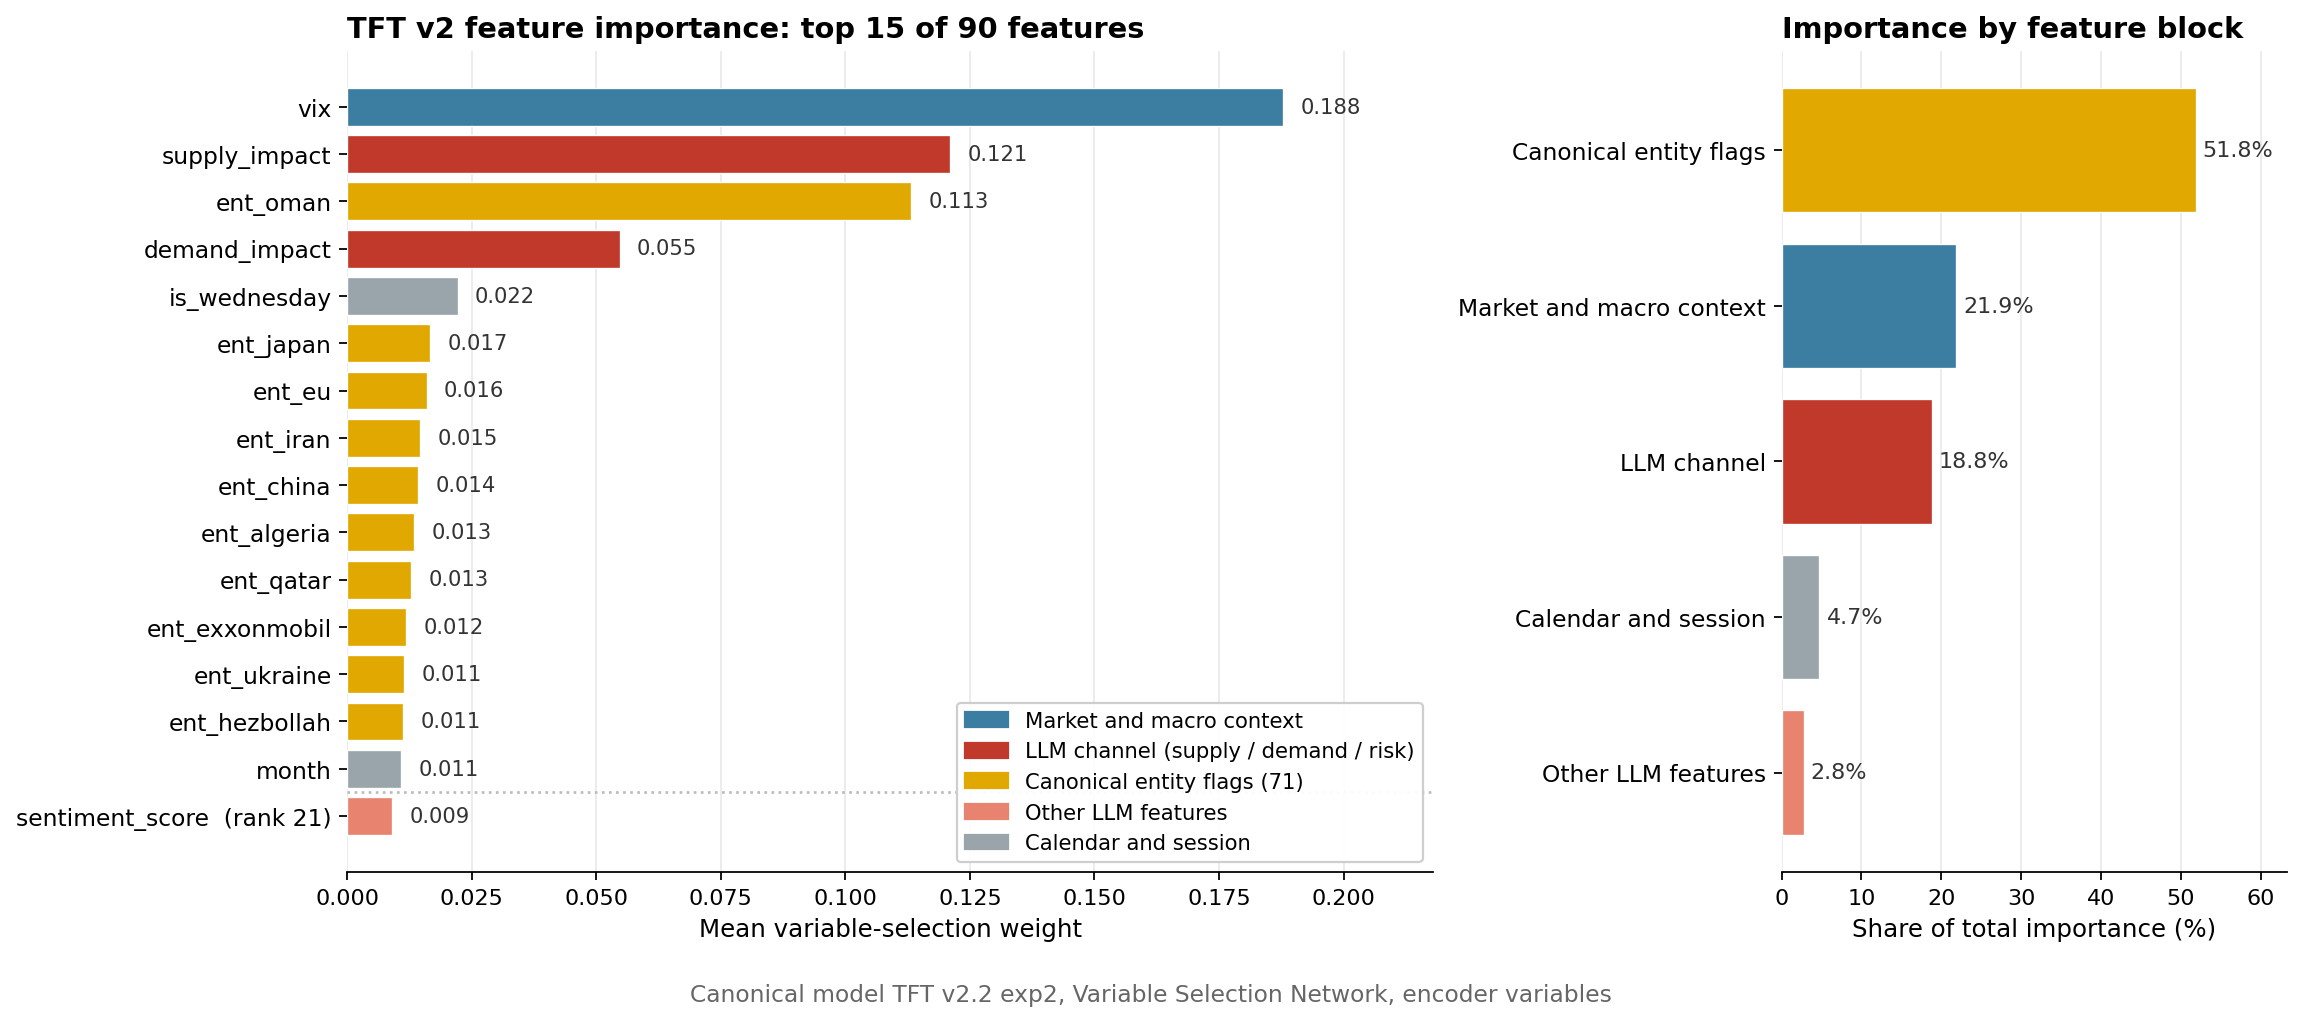
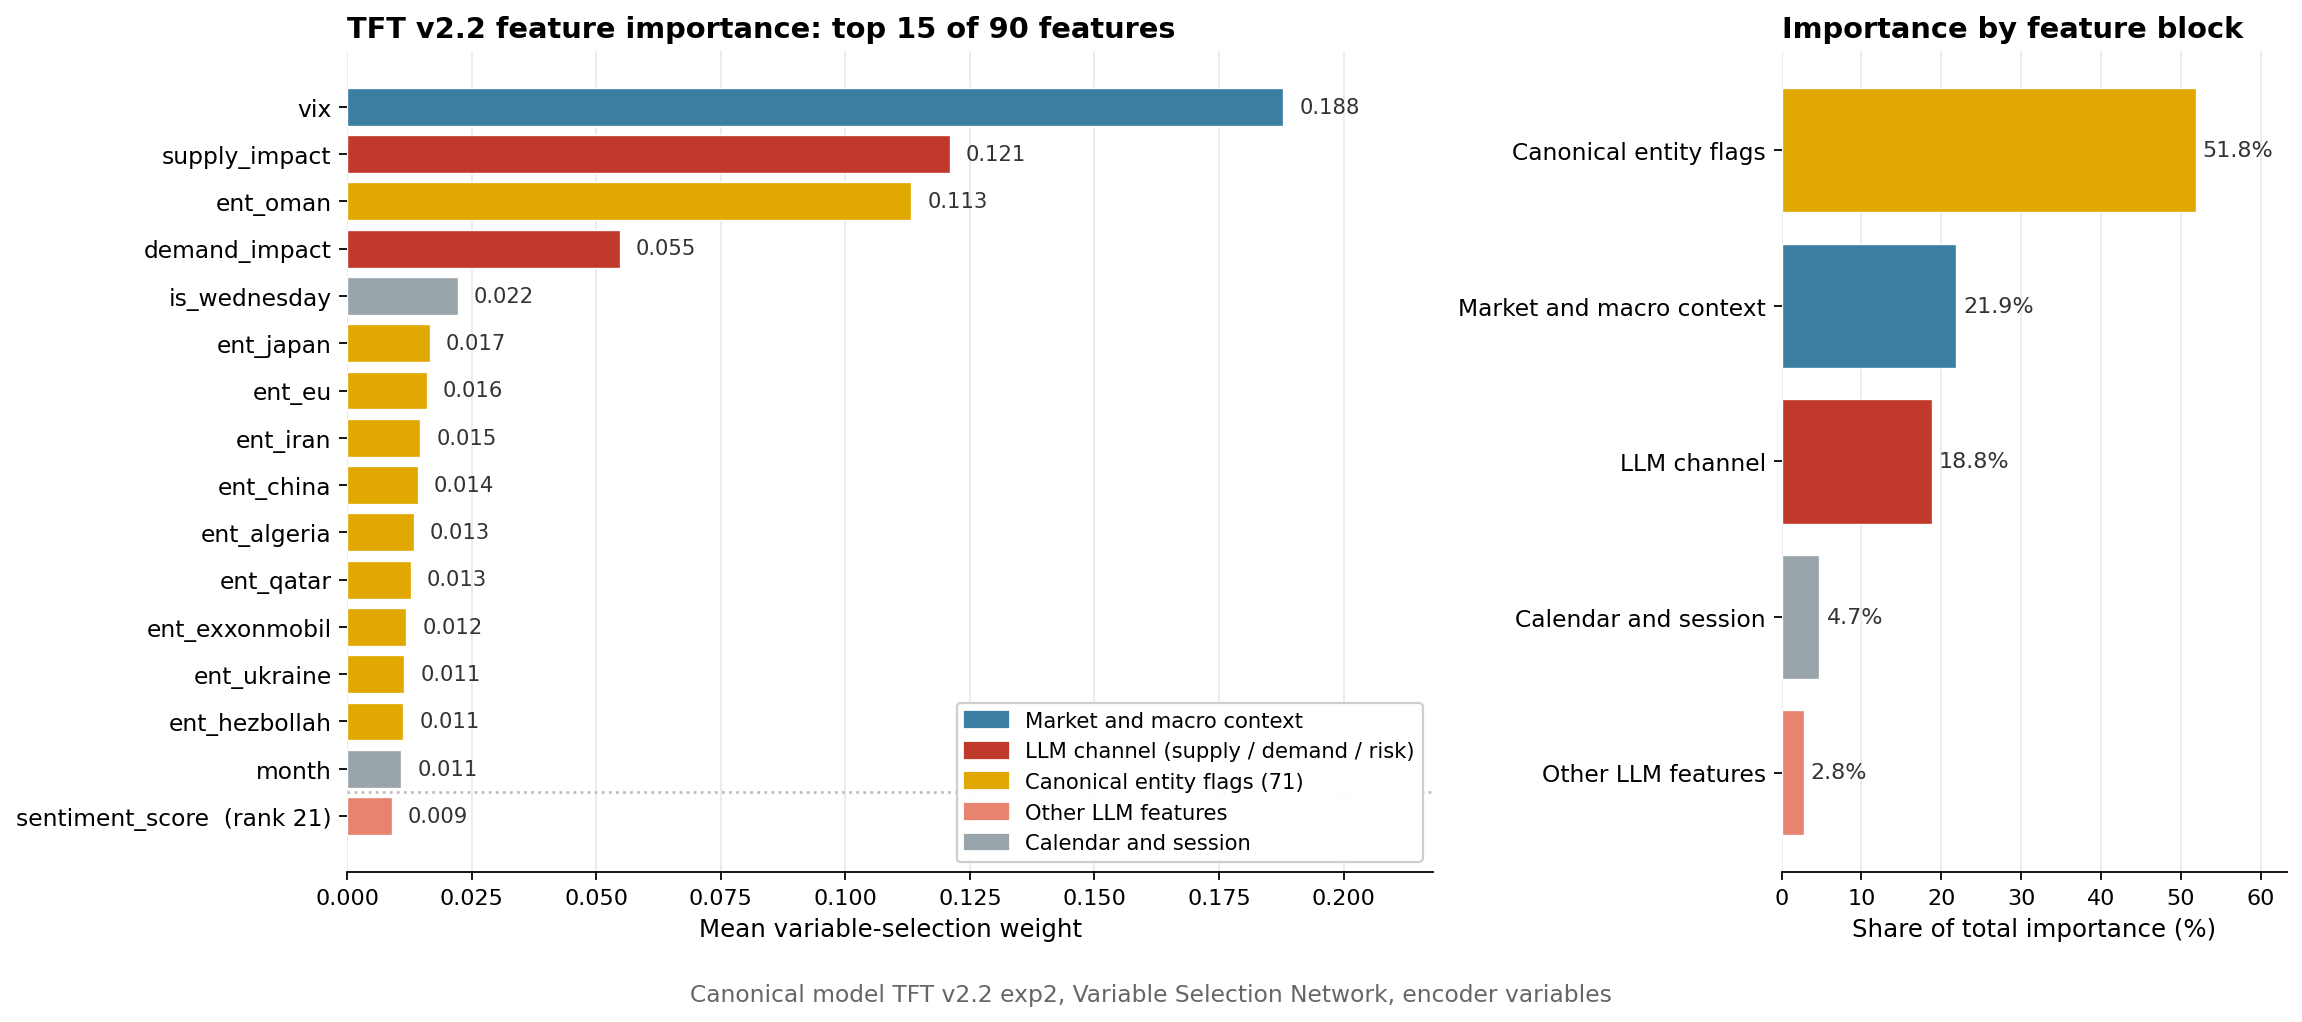
Update readme with feature importance figure

diff --git a/03_src/tft/plot_feature_importance.py b/03_src/tft/plot_feature_importance.py
@@ -1,0 +1,263 @@
+# 03_src/tft/plot_feature_importance.py
+"""Render the TFT v2 Variable Selection Network importance figure.
+
+Reads the `feature_importance.json` written by notebook 13 for an ablation
+variant and produces a two-panel figure: the top-N individual features
+coloured by feature block, and each block's share of total importance.
+
+The composite `sentiment_score` is always included, annotated with its rank
+when it falls outside the top N.  That is the point of the figure for the
+thesis: the channel decomposition pushed the composite from 53% of TFT v1's
+weight down to rank 21 here.
+
+Reads:   04_outputs/experiment_tracking/TFT/TFTv2/tft_v2_outputs/<variant>/feature_importance.json
+Writes:  04_outputs/figures/tft_v2_feature_importance.png
+
+Usage:
+    python 03_src/tft/plot_feature_importance.py
+    python 03_src/tft/plot_feature_importance.py --variant v2.1 --top 20
+"""
+
+import argparse
+import json
+from pathlib import Path
+
+import matplotlib
+
+matplotlib.use("Agg")
+import matplotlib.pyplot as plt
+
+# Repo root, resolved from this file so the script runs from any cwd.
+ROOT = Path(__file__).resolve().parents[2]
+V2_OUTPUTS = ROOT / "04_outputs/experiment_tracking/TFT/TFTv2/tft_v2_outputs"
+FIGURES = ROOT / "04_outputs/figures"
+
+# Canonical variant. See 05_reports/development-decisions/thesis_decisions_log.md:
+# v2.2 exp2 is the reported model (v2.3 added EIA features and scored worse).
+DEFAULT_VARIANT = "v2.2"
+
+# Feature blocks. Entity flags are matched by the ent_ prefix that
+# config.entity_to_column_name() produces, so the 71 flags need no listing.
+CHANNEL = {"supply_impact", "demand_impact", "risk_premium"}
+OTHER_LLM = {
+    "sentiment_score",
+    "certainty",
+    "magnitude",
+    "n_articles",
+    # v2.0 only: the int-encoded categoricals that v2.1 replaced with learned
+    # embeddings. Kept so the earlier ablation variants still plot.
+    "event_type_int",
+    "time_horizon_int",
+}
+MARKET = {"vix", "dxy", "log_volume", "log_return", "amihud", "price_range"}
+CALENDAR = {
+    "is_wednesday",
+    "month",
+    "day_of_week",
+    "hour",
+    "is_us_session",
+    "relative_time_idx",
+}
+
+COLORS = {
+    "channel": "#C0392B",
+    "llm": "#E8836F",
+    "entity": "#E0A800",
+    "market": "#3B7EA1",
+    "calendar": "#9AA5AB",
+}
+LABELS = {
+    "channel": "LLM channel (supply / demand / risk)",
+    "llm": "Other LLM features",
+    "entity": "Canonical entity flags (71)",
+    "market": "Market and macro context",
+    "calendar": "Calendar and session",
+}
+LEGEND_ORDER = ("market", "channel", "entity", "llm", "calendar")
+
+
+def feature_block(name: str) -> str:
+    """Map a feature name to its block key.
+
+    Raises on an unrecognised name rather than silently bucketing it, so a
+    schema change surfaces here instead of quietly skewing the block shares.
+    """
+    if name in CHANNEL:
+        return "channel"
+    if name in OTHER_LLM:
+        return "llm"
+    if name.startswith("ent_"):
+        return "entity"
+    if name in MARKET:
+        return "market"
+    if name in CALENDAR:
+        return "calendar"
+    raise ValueError(
+        f"uncategorized feature {name!r}: add it to a block set in this module"
+    )
+
+
+def plot_feature_importance(
+    importance: dict, variant: str, out_path: Path, top_n: int = 15
+):
+    """Render the two-panel importance figure and save it to out_path."""
+    total = sum(importance.values())
+    ranked = sorted(importance.items(), key=lambda kv: -kv[1])
+    rank_of = {k: i + 1 for i, (k, _) in enumerate(ranked)}
+
+    fig, (ax1, ax2) = plt.subplots(
+        1, 2, figsize=(14.5, 6.6), gridspec_kw={"width_ratios": [2.15, 1]}
+    )
+
+    # ---- left panel: top-N individual features ----
+    rows = ranked[:top_n]
+    # Always show the composite, even when it ranks below the cut.
+    trailing = [(k, v) for k, v in ranked if k == "sentiment_score" and rank_of[k] > top_n]
+    rows = rows + trailing
+
+    names = [k for k, _ in rows]
+    vals = [v for _, v in rows]
+    ypos = list(range(len(rows)))[::-1]
+
+    ax1.barh(
+        ypos,
+        vals,
+        color=[COLORS[feature_block(k)] for k in names],
+        edgecolor="white",
+        linewidth=0.6,
+    )
+    for y, v in zip(ypos, vals):
+        ax1.text(v + max(vals) * 0.017, y, f"{v:.3f}", va="center",
+                 fontsize=9.5, color="#333333")
+
+    ax1.set_yticks(ypos)
+    ax1.set_yticklabels(
+        [n if rank_of[n] <= top_n else f"{n}  (rank {rank_of[n]})" for n in names],
+        fontsize=10.5,
+    )
+    ax1.set_xlabel("Mean variable-selection weight", fontsize=11)
+    ax1.set_title(
+        f"TFT {variant} feature importance: "
+        f"top {min(top_n, len(importance))} of {len(importance)} features",
+        fontsize=13,
+        fontweight="bold",
+        loc="left",
+    )
+    ax1.set_xlim(0, max(vals) * 1.16)
+    ax1.grid(axis="x", alpha=0.3, linewidth=0.7)
+    ax1.set_axisbelow(True)
+    for side in ("top", "right", "left"):
+        ax1.spines[side].set_visible(False)
+
+    if trailing:
+        # Dotted rule marking the break between the top-N and the appended rows.
+        ax1.axhline(len(trailing) - 0.5, color="#BBBBBB", linestyle=":", linewidth=1.2)
+
+    ax1.legend(
+        [plt.Rectangle((0, 0), 1, 1, color=COLORS[b]) for b in LEGEND_ORDER],
+        [LABELS[b] for b in LEGEND_ORDER],
+        loc="lower right",
+        fontsize=9.5,
+        frameon=True,
+        framealpha=0.95,
+    )
+
+    # ---- right panel: share of total importance by block ----
+    sums = {}
+    for name, weight in importance.items():
+        block = feature_block(name)
+        sums[block] = sums.get(block, 0.0) + weight
+
+    order = sorted(sums, key=lambda b: -sums[b])
+    shares = [100 * sums[b] / total for b in order]
+    ypos2 = list(range(len(order)))[::-1]
+
+    ax2.barh(
+        ypos2,
+        shares,
+        color=[COLORS[b] for b in order],
+        edgecolor="white",
+        linewidth=0.6,
+    )
+    for y, s in zip(ypos2, shares):
+        ax2.text(s + 0.9, y, f"{s:.1f}%", va="center", fontsize=10, color="#333333")
+
+    ax2.set_yticks(ypos2)
+    ax2.set_yticklabels(
+        [
+            LABELS[b].replace(" (supply / demand / risk)", "").replace(" (71)", "")
+            for b in order
+        ],
+        fontsize=10.5,
+    )
+    ax2.set_xlabel("Share of total importance (%)", fontsize=11)
+    ax2.set_title("Importance by feature block", fontsize=13,
+                  fontweight="bold", loc="left")
+    ax2.set_xlim(0, max(shares) * 1.22)
+    ax2.grid(axis="x", alpha=0.3, linewidth=0.7)
+    ax2.set_axisbelow(True)
+    for side in ("top", "right", "left"):
+        ax2.spines[side].set_visible(False)
+
+    # Only v2.2 exp2 is the reported model; label the others plainly.
+    descriptor = (
+        f"Canonical model TFT {variant} exp2"
+        if variant == DEFAULT_VARIANT
+        else f"Ablation variant TFT {variant}"
+    )
+    fig.suptitle(
+        f"{descriptor}, Variable Selection Network, encoder variables",
+        fontsize=10.5,
+        color="#666666",
+        x=0.5,
+        y=0.015,
+    )
+    fig.tight_layout(rect=[0, 0.03, 1, 1])
+    out_path.parent.mkdir(parents=True, exist_ok=True)
+    fig.savefig(out_path, dpi=160, bbox_inches="tight", facecolor="white")
+    plt.close(fig)
+
+    return {b: round(100 * sums[b] / total, 1) for b in order}
+
+
+def _display(path: Path) -> str:
+    """Repo-relative path when the file sits inside the repo, absolute otherwise."""
+    path = path.resolve()
+    try:
+        return str(path.relative_to(ROOT))
+    except ValueError:
+        return str(path)
+
+
+def main():
+    parser = argparse.ArgumentParser(description=__doc__)
+    parser.add_argument(
+        "--variant",
+        default=DEFAULT_VARIANT,
+        help=f"ablation variant directory under {V2_OUTPUTS.name} (default: {DEFAULT_VARIANT})",
+    )
+    parser.add_argument(
+        "--top", type=int, default=15, help="number of individual features to show"
+    )
+    parser.add_argument(
+        "--out",
+        type=Path,
+        default=FIGURES / "tft_v2_feature_importance.png",
+        help="output PNG path",
+    )
+    args = parser.parse_args()
+
+    src = V2_OUTPUTS / args.variant / "feature_importance.json"
+    if not src.exists():
+        raise SystemExit(f"no feature_importance.json for variant {args.variant!r}: {src}")
+
+    importance = json.loads(src.read_text())
+    shares = plot_feature_importance(importance, args.variant, args.out, args.top)
+
+    print(f"read  {_display(src)}")
+    print(f"wrote {_display(args.out)}")
+    print(f"block shares: {shares}")
+
+
+if __name__ == "__main__":
+    main()

diff --git a/README.md b/README.md
@@ -156,7 +156,7 @@ There is **no human-annotated ground truth** for this corpus. So validation uses
 
 **Where it broke is the interesting part.** The sign disagreements were not evenly spread. The two highest-magnitude articles in the sample, both geopolitical supply stories (an Iran escalation warning, the UAE announcing its exit from OPEC), disagreed on sign. Those are exactly the articles that move the market. The cause: the composite score was being asked to hold two separate judgments at once, the **valence of the event** (good news or bad news?) and its **directional price impact** (does it push crude up or down?). For most articles those agree. For a supply-threatening escalation they come apart.
 
-**The fix, and the surprise.**
+**The fix, decomposition of sentiment_score into 3 different channels.**
 
 | Metric                        | v1 schema    | v2 schema       |
 | ----------------------------- | ------------ | --------------- |
@@ -166,7 +166,7 @@ There is **no human-annotated ground truth** for this corpus. So validation uses
 | `demand_impact` correlation   | n/a          | 0.96            |
 | `risk_premium` correlation    | n/a          | 0.82            |
 
-The composite improved from 0.39 to 0.88 **without being modified**. Asking the model to decompose the article first, and only then produce a composite, disciplines everything downstream. Within the calibration sample the channels are near-orthogonal (pairwise |r| ≤ 0.40). On the full corpus `demand_impact` is essentially uncorrelated with the others (|r| < 0.05), while `supply_impact` and `risk_premium` correlate at −0.55, which is economically expected since a supply threat is itself a risk event.
+The composite improved from 0.39 to 0.88 **without being modified**. Asking the model to decompose the article first, and only then produce a composite, disciplines everything downstream. Within the calibration sample the channels are near-orthogonal. On the full corpus `demand_impact` is uncorrelated with the others, while `supply_impact` and `risk_premium` correlate at −0.55, which is economically expected since a supply threat is itself a risk event.
 
 ---
 
@@ -230,6 +230,14 @@ Overall attention peaks at **−1h**, and bullish-sentiment hours peak at −1h 
 
 _Left: the top 15 of 90 features by mean variable-selection weight, with `sentiment_score` shown for reference at rank 21. Right: share of total importance by feature block._
 
+Regenerate this figure from the tracked run outputs with:
+
+```bash
+python 03_src/tft/plot_feature_importance.py
+```
+
+Pass `--variant v2.0` or `--variant v2.1` to plot the earlier ablation runs, which is the quickest way to watch the categorical-encoding fix land. The channel block carries **10.8%** of importance under int-encoding (v2.0) and **54.7%** once the categoricals become learned embeddings (v2.1), before the entity flags arrive in v2.2 and take half the weight.
+
 - **Entities carry the block.** All 71 flags together hold about **52%** of total importance, and six sit in the top ten.
 - **Only four features lead individually.** VIX (0.188), `supply_impact` (0.121), `ent_oman` (0.113), `demand_impact` (0.055). Everything from rank 5 down is ≤ 0.022.
 - **The channels rival VIX.** Supply plus demand carry 17.6% of raw weight, against 18.8% for VIX alone.
@@ -271,9 +279,7 @@ Hourly volume is strongly autocorrelated, so "assume nothing changes" is already
 
 **Works.** Volume and Amihud beat persistence at every horizon.
 
-**Fails, and cleanly.** `price_range` loses on the full test set, but the failure is **regime-specific, not general**. On the pre-war slice the model does well (0.154 to 0.165, beating persistence). On the war slice it degrades to about 1.200. Having only ever seen the moderate-volatility pre-war regime, the model reverts toward the historical mean while persistence at least tracks the elevated current state. This is a textbook **regime-extrapolation failure**, and it makes sense that it surfaces on `price_range`, which measures intraday volatility directly and is therefore the most regime-sensitive of the three targets.
-
-**One diagnostic is weaker than it looks.** The `log_volume` reduction curve grows from 46% at +1h to 71% at +12h, but that is mostly the _baseline_ decaying (persistence MAE rises 1.076 → 2.174) rather than the model improving (0.585 → 0.631). Read strictly, this curve establishes that the Phase 2 features carry signal across the whole 1-to-12h window; it does **not** locate the response at any particular lag. The lag evidence comes from the attention pattern.
+**Fails on different regime.** `price_range` loses on the full test set, but the failure is **regime-specific, not general**. On the pre-war slice the model does well (0.154 to 0.165, beating persistence). On the war slice it degrades to about 1.200. Having only ever seen the moderate-volatility pre-war regime, the model reverts toward the historical mean while persistence at least tracks the elevated current state. This is a textbook **regime-extrapolation failure**, and it makes sense that it surfaces on `price_range`, which measures intraday volatility directly and is therefore the most regime-sensitive of the three targets.
 
 ### Supporting finding: headline bias
 
@@ -338,7 +344,9 @@ news-driven-liquidity/
 │   └── deprecated_notebooks/    # superseded exploration
 ├── 03_src/
 │   ├── nlp/llm_features.py      # locked prompt, tool schema, entity maps, canonicalize_entities
-│   └── tft/config.py            # locked constants (TRAIN_END, WAR_ONSET_IDX, ...)
+│   └── tft/
+│       ├── config.py                  # locked constants (TRAIN_END, WAR_ONSET_IDX, ...)
+│       └── plot_feature_importance.py # regenerates the v2 importance figure
 ├── 04_outputs/
 │   ├── figures/                 # generated PNGs (lag coefficients, attention, importance...)
 │   ├── tables/                  # generated CSVs (lag OLS results...)
@@ -407,8 +415,6 @@ Run in numeric order; each builds on the tables the previous ones wrote.
 1. Create a Python environment (a local `.venv` is used) and install the dependencies (pandas, numpy, yfinance, requests, beautifulsoup4, anthropic, python-dotenv, statsmodels, scipy, matplotlib, seaborn, torch, lightning, pytorch-forecasting, transformers for FinBERT).
 2. Put an `ANTHROPIC_API_KEY` in a `.env` file at the project root (needed for notebooks 06 and 11). An EIA API key is optional (notebook 02 falls back to `DEMO_KEY`, which is rate-limited).
 3. Run the notebooks in order (00 -> 13). Notebook 13 (TFT v2) is intended for Google Colab with a GPU.
-
-Two conventions worth knowing before you touch the code: use `lightning.pytorch`, never the legacy `pytorch_lightning` namespace (mixing them causes silent `isinstance` failures), and use `dt.ceil`, never `dt.round`, when aligning articles to trading hours.
 
 ---
 
